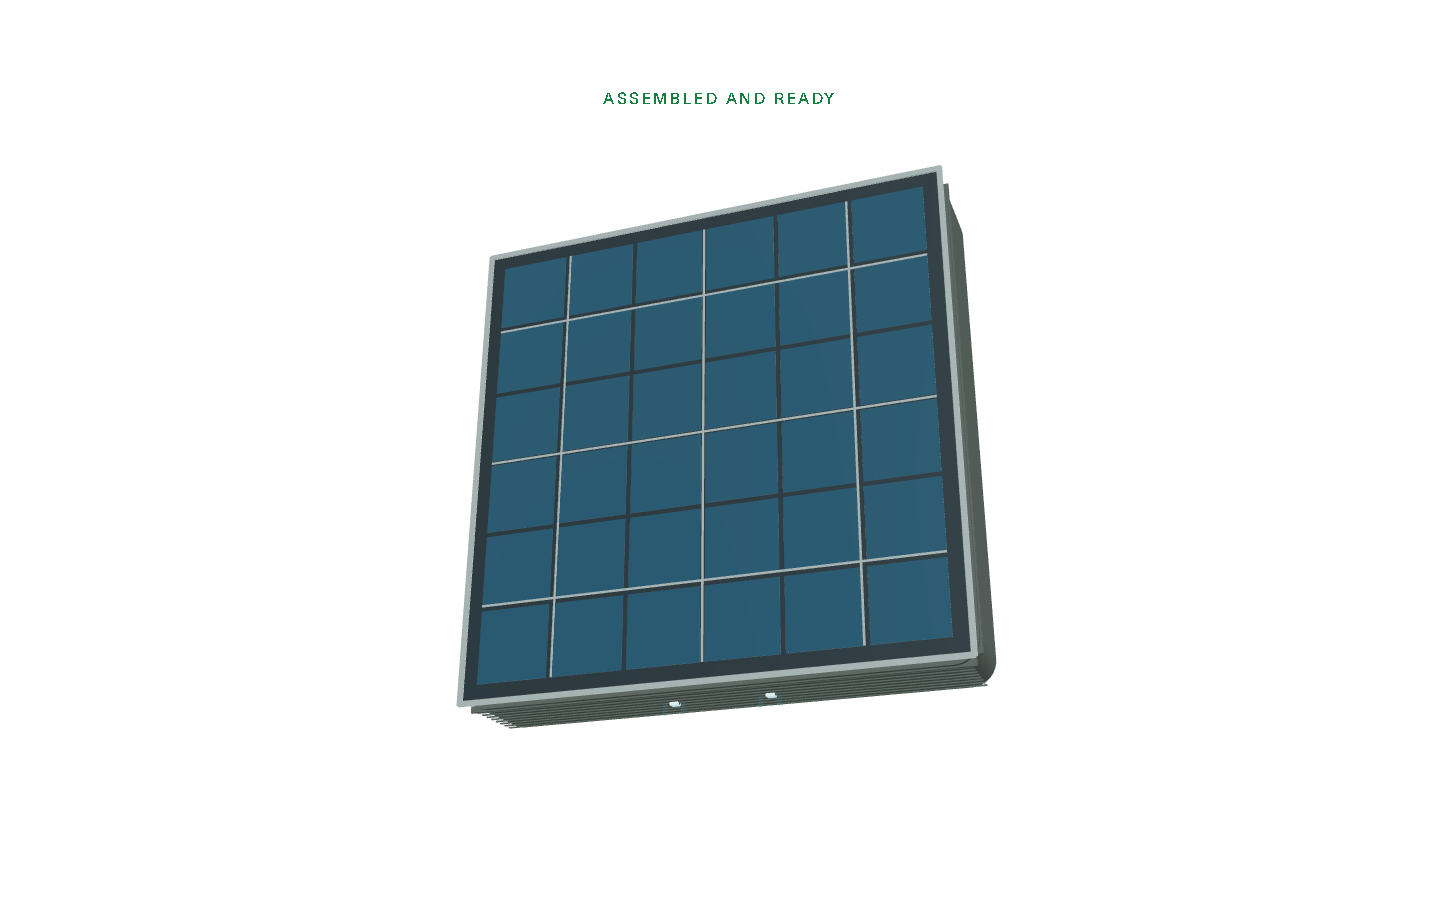
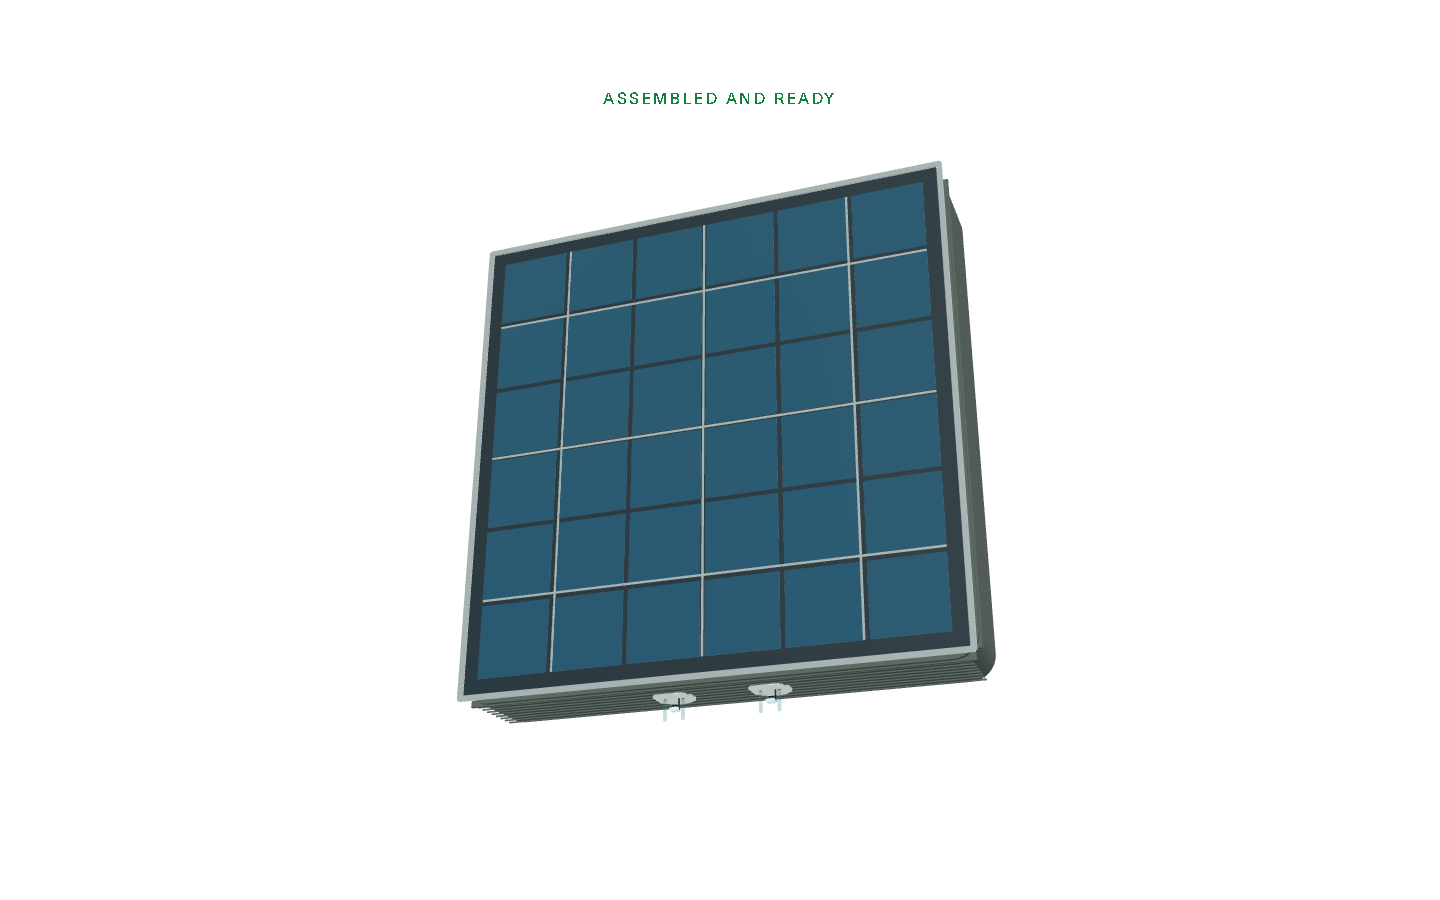
fix(assembly3d): seat pass10c leds at enclosure front

diff --git a/js/ff-assembly3d.js b/js/ff-assembly3d.js
@@ -1,7 +1,7 @@
 import * as THREE from 'three';
 import { GLTFLoader } from 'three/addons/loaders/GLTFLoader.js';
 
-const CACHE_TOKEN = 'pass10b';
+const CACHE_TOKEN = 'pass10c';
 const GLB_URL = `assets/3d/flashlight-assembly.glb?rev=${CACHE_TOKEN}`;
 const MM = 0.001;
 const DPR_CAP = 1.75;
